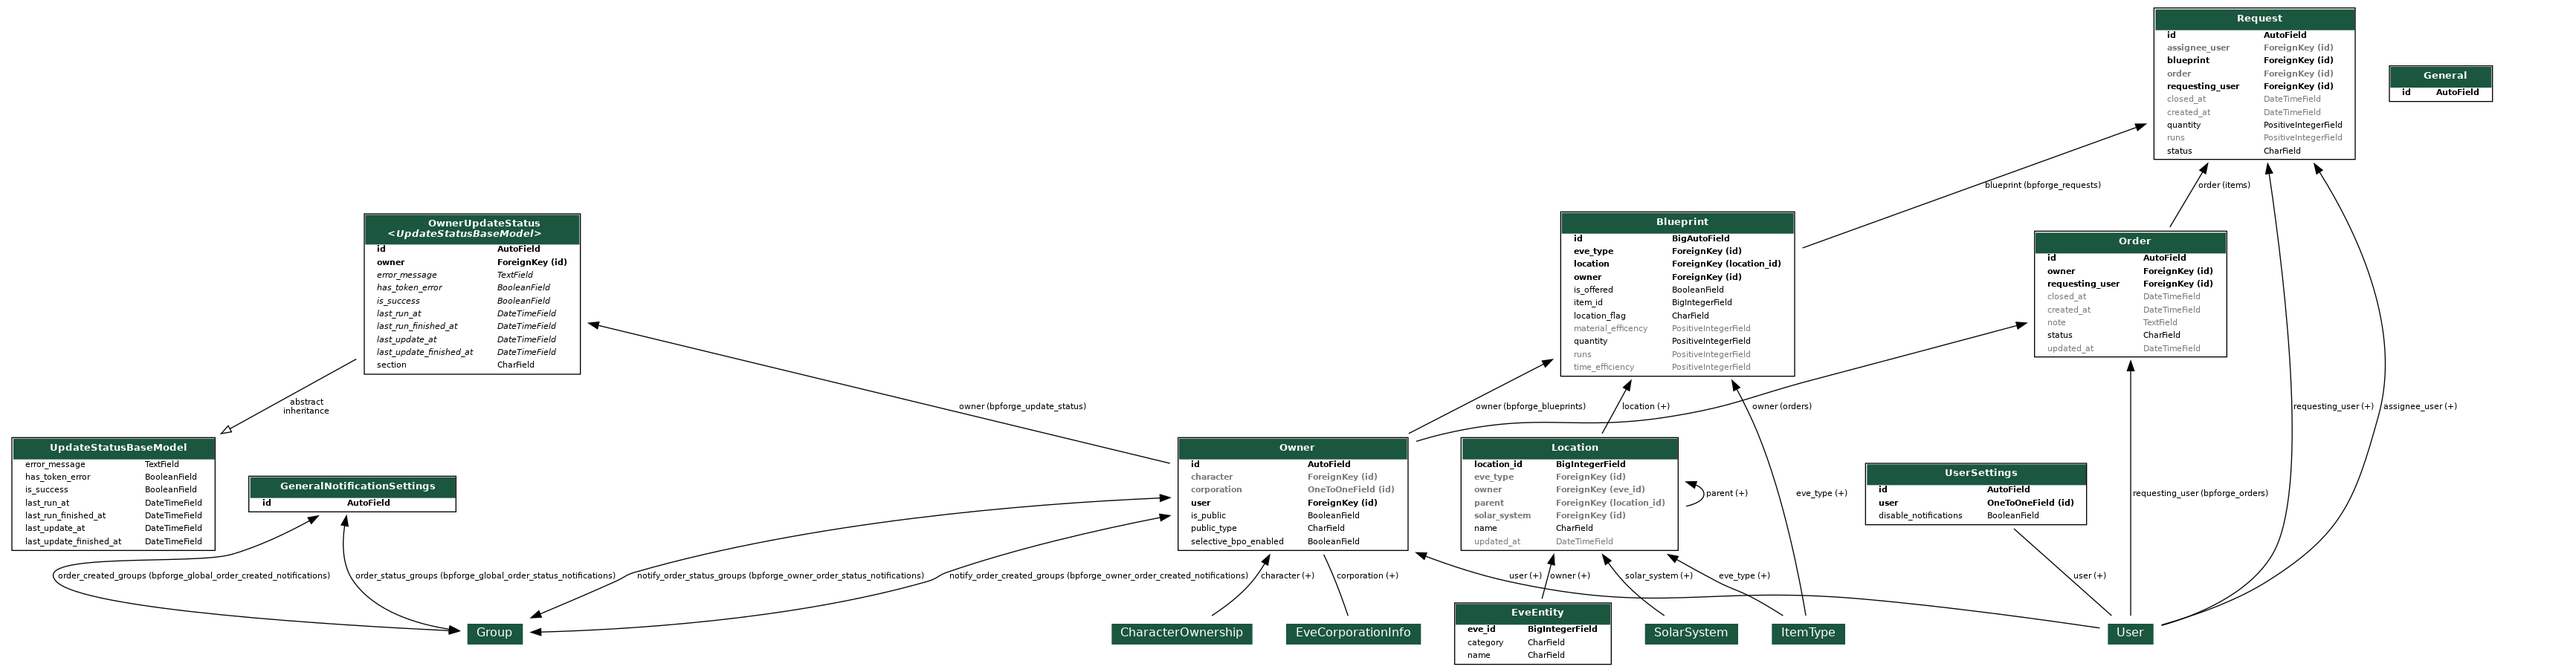
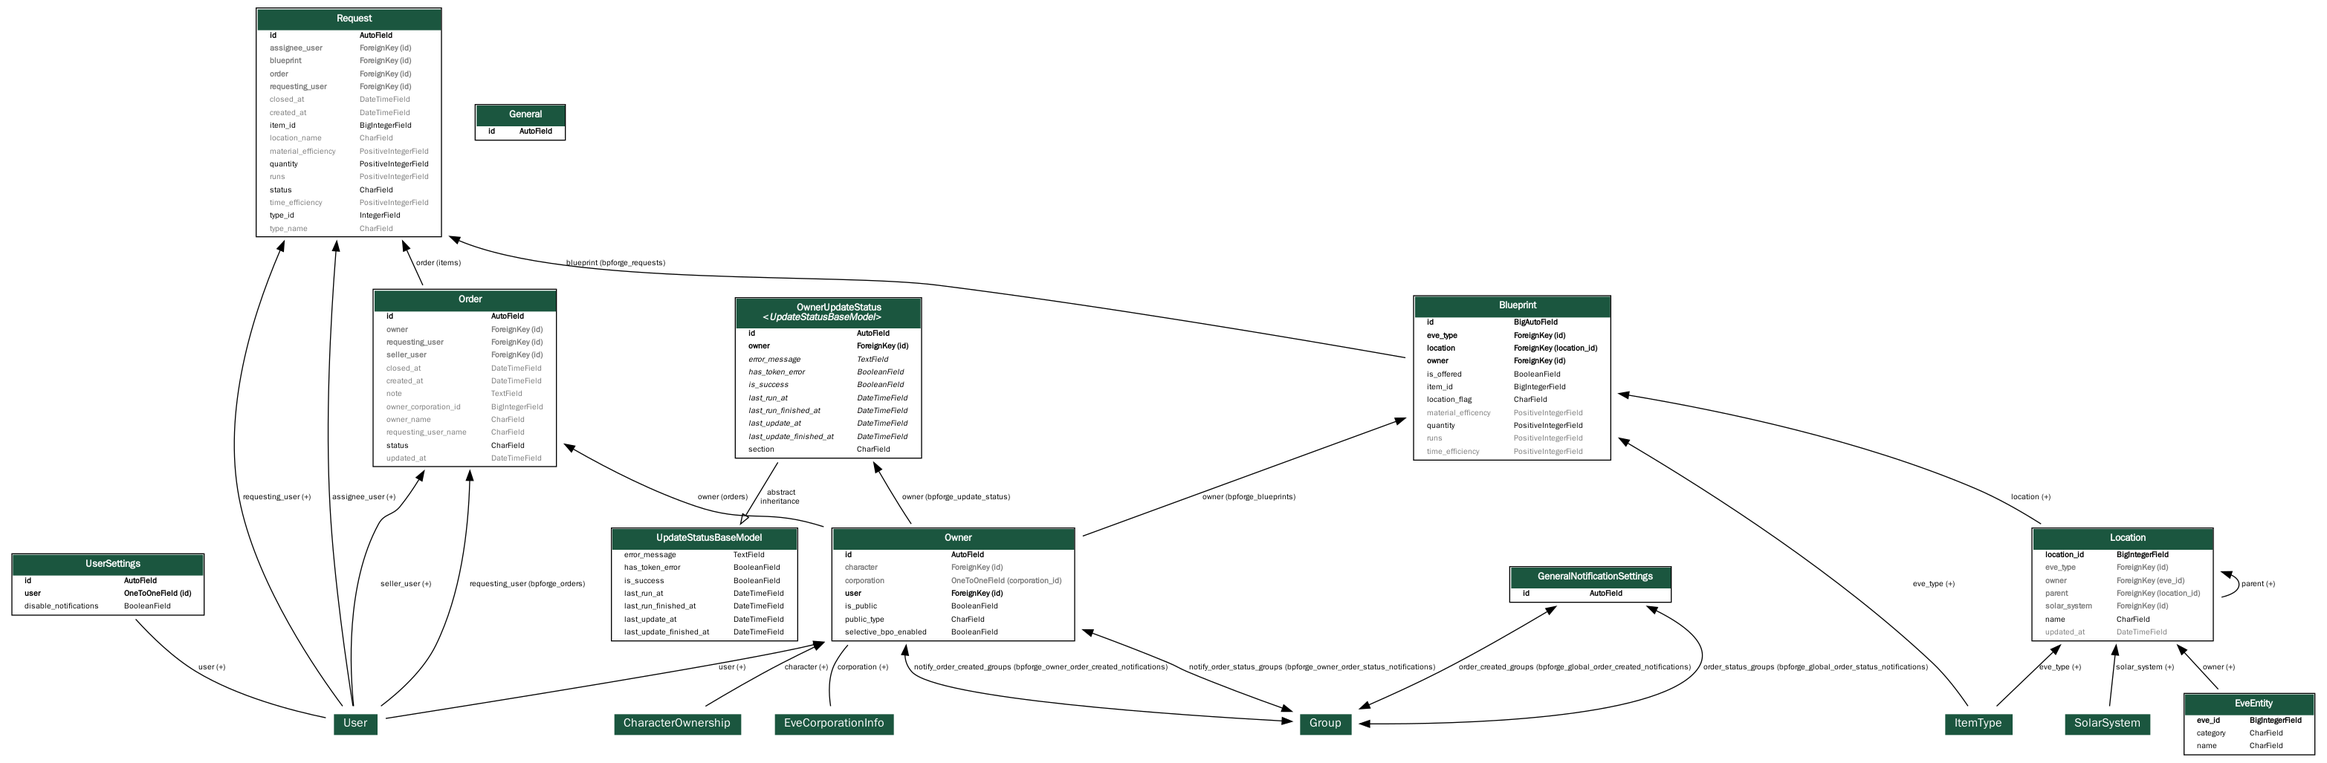
[CHANGE] Update the model graph to the current models (#95)

diff --git a/CHANGELOG.md b/CHANGELOG.md
@@ -26,6 +26,10 @@ Section Order:
 ### Removed
 -->
 
+### Changed
+
+- [CHANGE] The model graph `aa-blueprint-forge-models.png` shows the current models (order history, copied blueprint values); it was still on the state of 1.1.0.
+
 <!-- Your changes go here -->
 
 ## [2.0.0] - 2026-11-24
